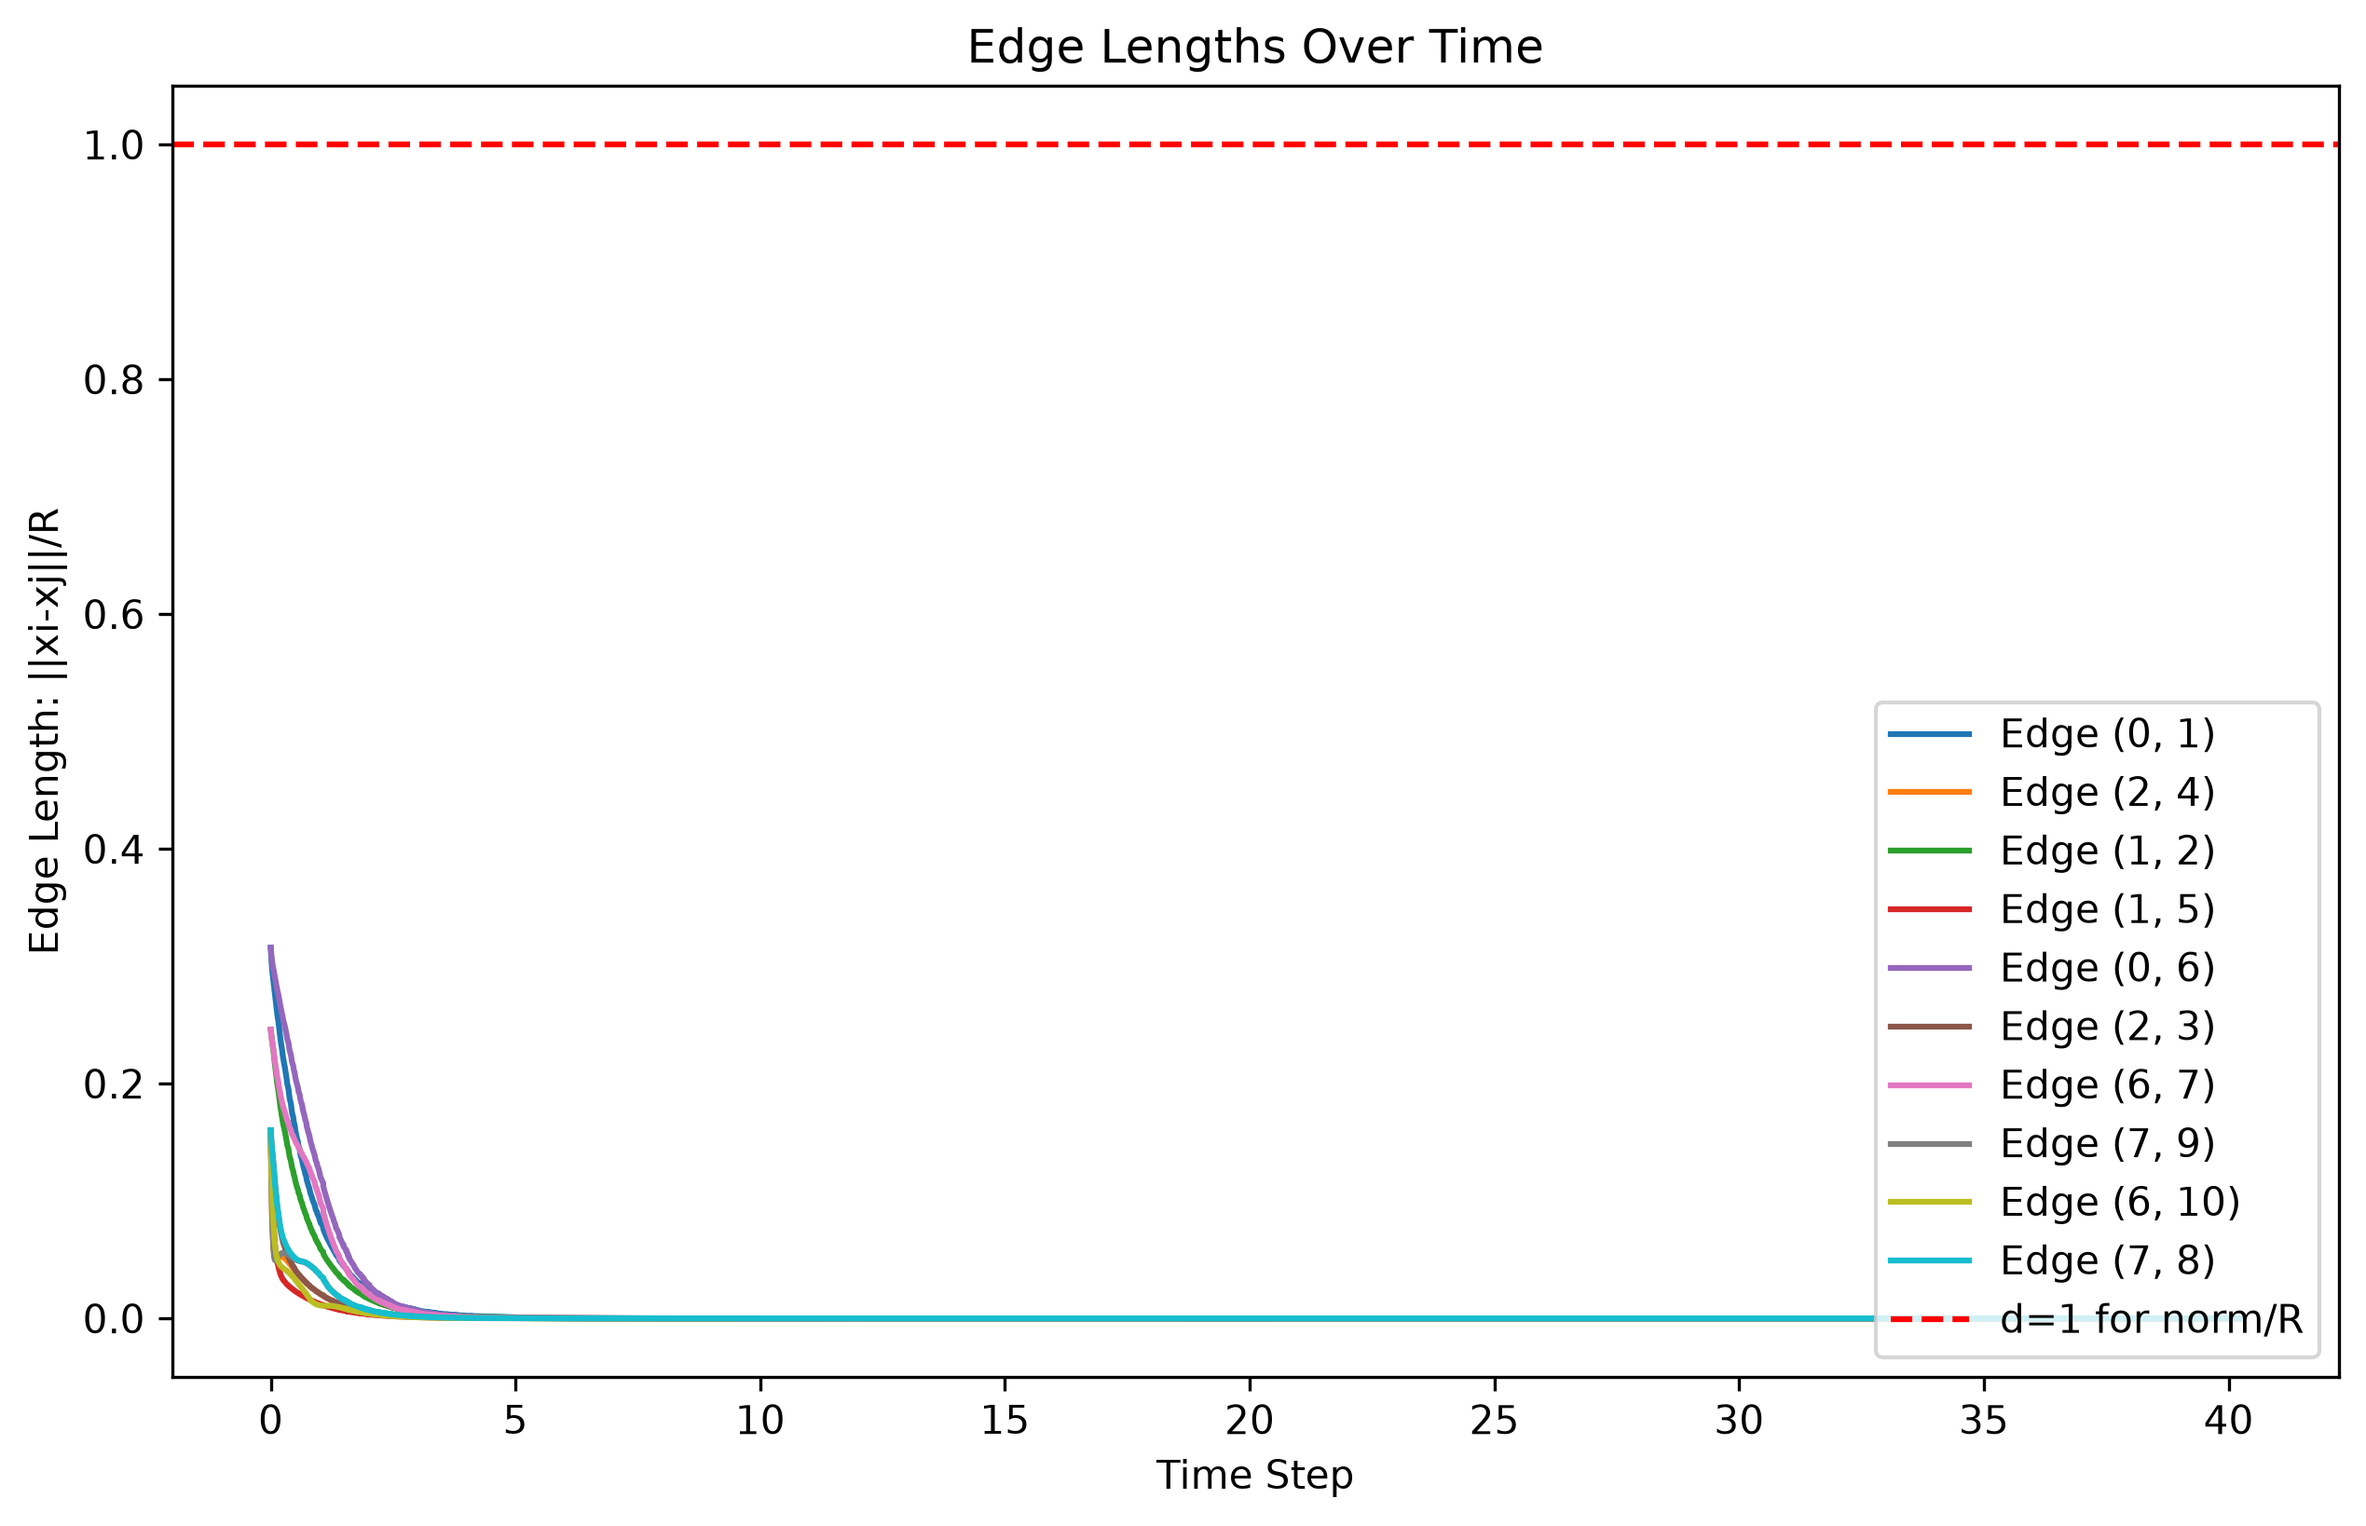
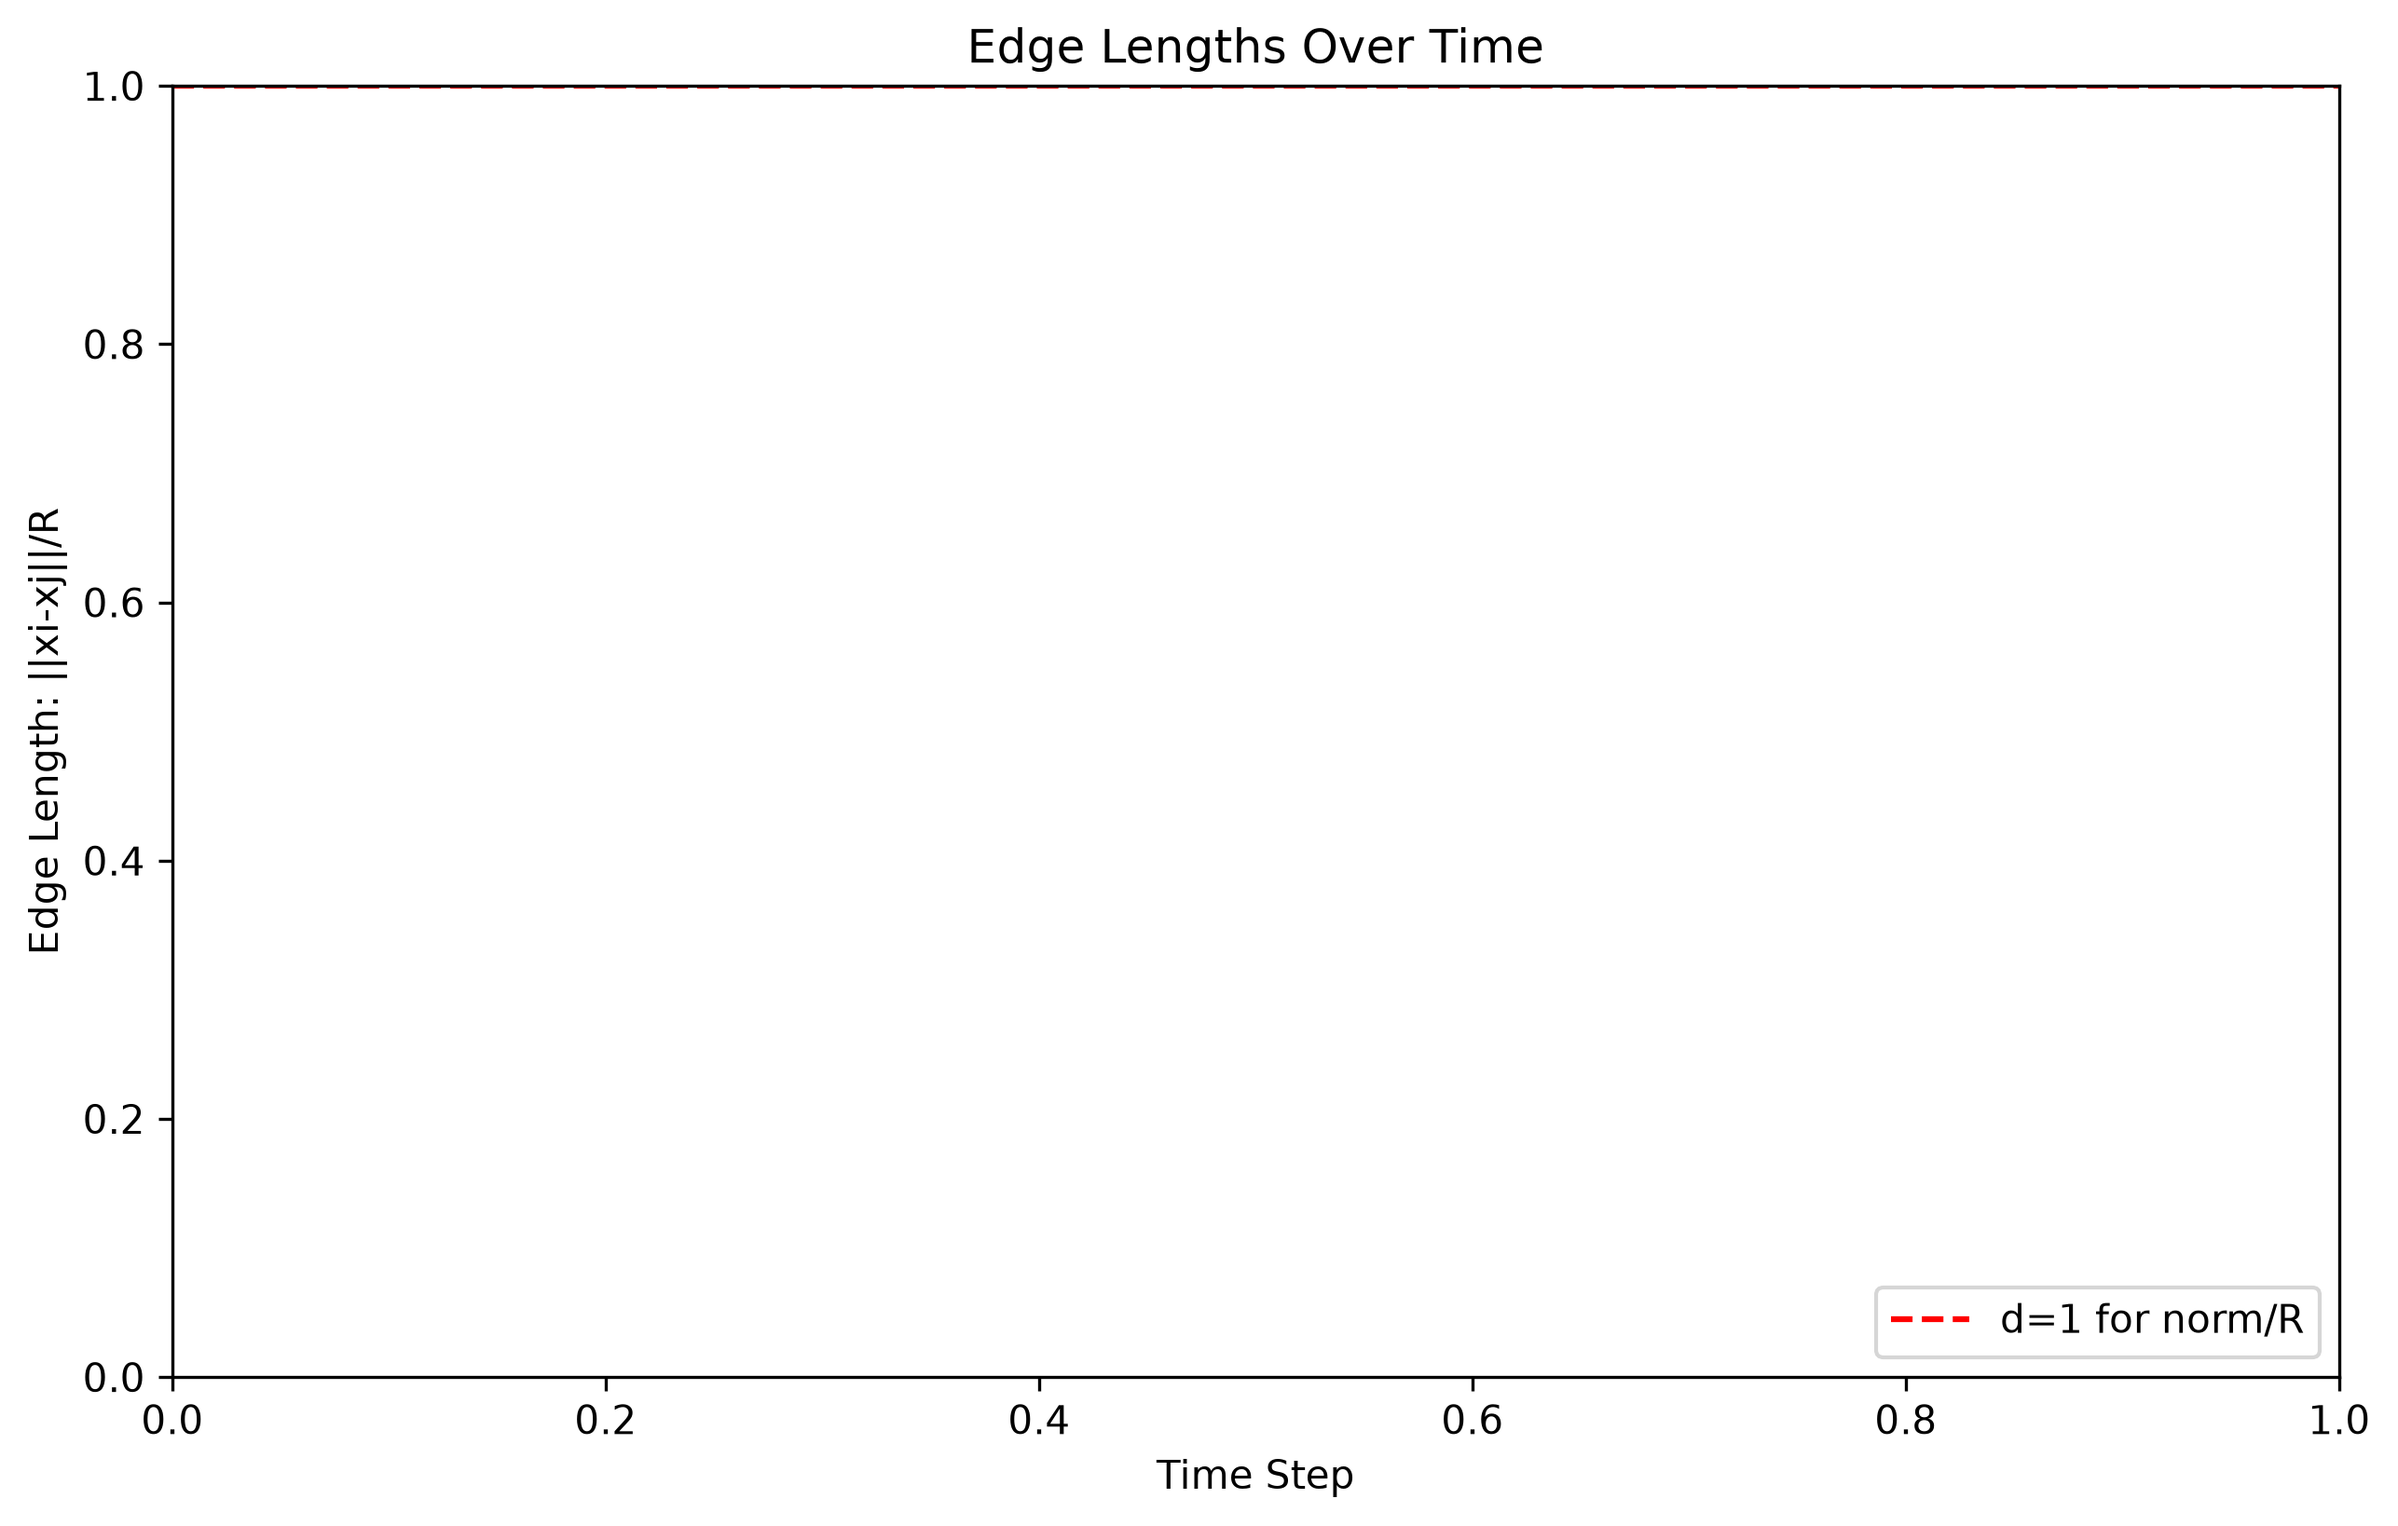
Switched ffmpeg->html, improved requirements.txt
Switched default matplotlib writer to HTML, as it requires no additional dependencies. The catch is that it writes about 150 MB of frames to the user's storage drive. The FFmpeg lines can be uncommented if desired.

Improved requirements.txt to include info from readme.md, have some tips, and address the FFmpeg-Matplotlib conundrum

diff --git a/src/main_single_sim.py b/src/main_single_sim.py
@@ -16,7 +16,10 @@ from scipy.integrate import odeint, solve_ivp
 from matplotlib.animation import FuncAnimation, PillowWriter
 from datetime import datetime
 from matplotlib.lines import Line2D
-plt.rcParams['animation.ffmpeg_path'] = 'C:\\0_Work_files\\bin\\ffmpeg\\bin\\ffmpeg.exe'
+
+# Uncomment the other lines involving ffmpeg if you want to use ffmpeg, then comment the html lines
+# Only use this line if you want to use FFmpeg but can't get PATH to work.
+# plt.rcParams['animation.ffmpeg_path'] = 'C:\\0_Work_files\\bin\\ffmpeg\\bin\\ffmpeg.exe'
 
 # from manim import *
 current_time = datetime.now()
@@ -233,7 +236,9 @@ if solverType=='Euler':
     )
     myPath=os.path.abspath(__file__)
     # animationFile = r"/home/ishan/sims/variable_graph_MAS/sims/" 
-    writerVideo = animation.FFMpegWriter(fps=framesPerSec) 
+    # writerVideo = animation.FFmpegWriter(fps=framesPerSec)
+    # ani.save('pnpMovieContractive.mp4', writer=writerVideo)
+    writerVideo = animation.HTMLWriter(fps=framesPerSec)
     ani.save('pnpMovieContractive.mp4', writer=writerVideo)
 
 elif solverType == 'nsfPlots':
@@ -262,7 +267,7 @@ elif solverType=="odeInt": #For OdeInt
     plot_multi_agent_trajectories(net, odeSol, flowTime)
     plt.title('ODE Solution for Multiple Agents')
     plt.show()
-    raise Exception("Comment this line out to turn on the video")
+    # raise Exception("Comment this line out to turn on the video")
     odeTimeStamps=np.insert(output_dict['tcur'],0,0) # odeSol includes the starting t=0 frame, but t=0 is not included in tcur
     odeTimeStamps,odeSol=frameCull(odeTimeStamps,odeSol,maxTime=simTime,desiredNframes=Nframes)
     ani=animation.FuncAnimation(
@@ -276,5 +281,7 @@ elif solverType=="odeInt": #For OdeInt
     )
     myPath=os.path.abspath(__file__)
     net.plotEdgeLenghts()
-    writerVideo = animation.FFMpegWriter(fps=framesPerSec)
-    ani.save('pnpMovie.mp4', writer=writerVideo)
+    # writerVideo = animation.FFMpegWriter(fps=framesPerSec)
+    # ani.save('pnpMovie.mp4', writer=writerVideo)
+    writerVideo = animation.HTMLWriter(fps=framesPerSec)
+    ani.save('pnpMovie.html', writer=writerVideo)
